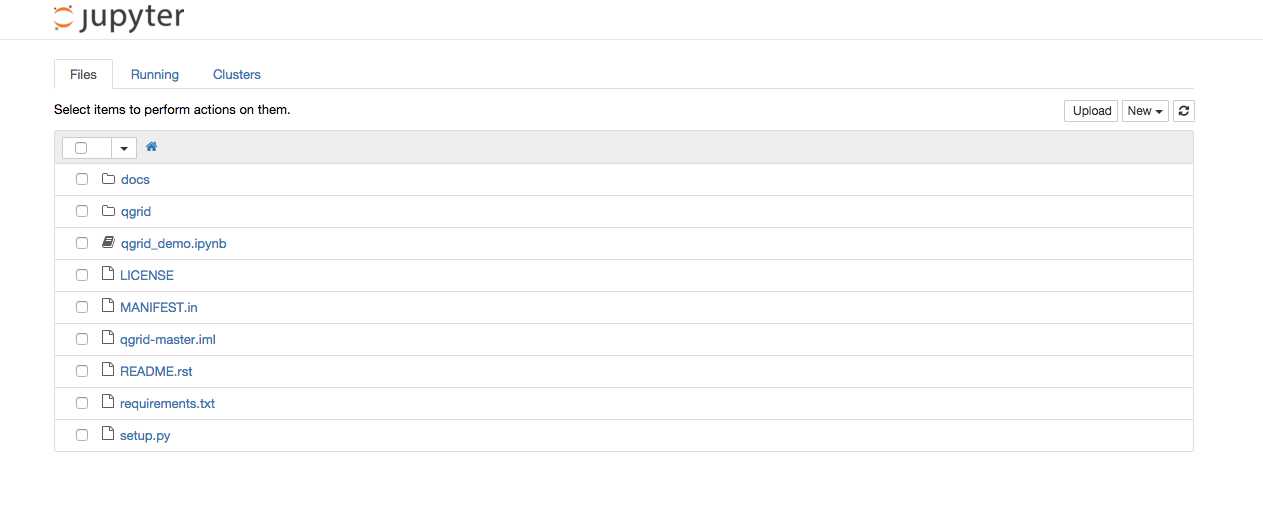
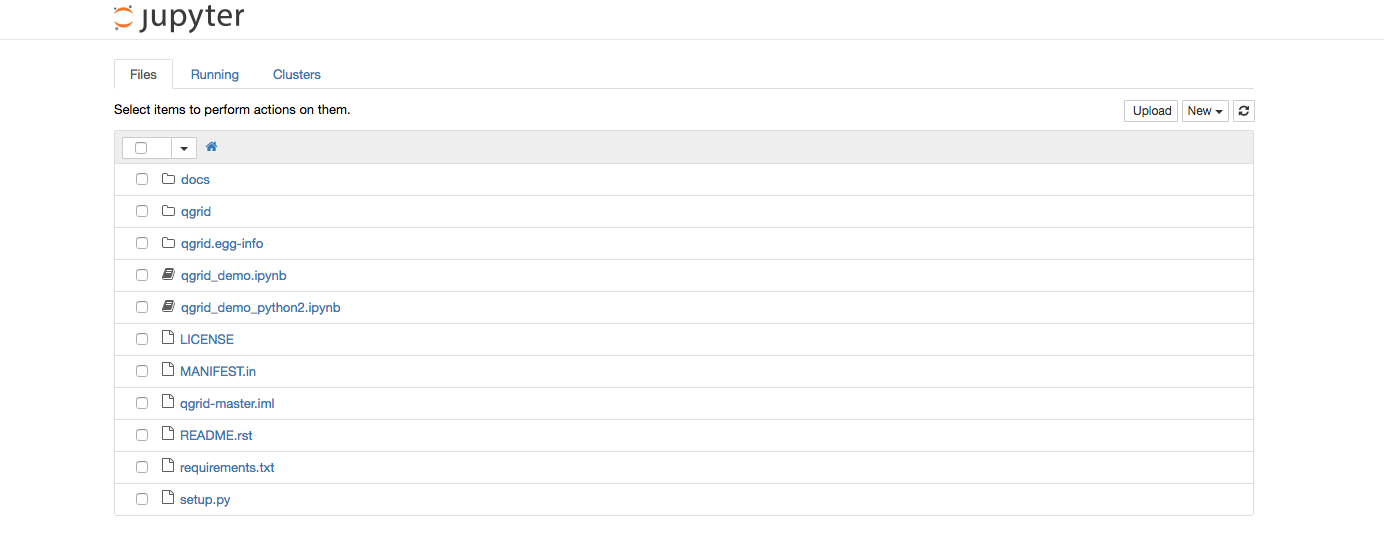
Fixing docs, regarding python2 compatibility (#79)
Qgrid is still compatible with Python 2. I mistakenly removed that from the docs because the sample notebook wasn't working with python 2, since it was saved with a python 3 kernel. To prevent other people from running into that problem I've added a separate version of the sample notebook that I saved with a python 2 kernel, and updated the docs accordingly.

Changed region(s): [[0.0309, 0.1224, 0.9572, 0.8872], [0.0309, 0.0, 0.1853, 0.0612], [0.0926, 0.9178, 0.1853, 0.9484]]

diff --git a/README.rst b/README.rst
@@ -31,7 +31,7 @@ Installation
 
 **Python Dependencies:**
 
-Qgrid runs on `Python 3 <https://www.python.org/downloads/>`_.  You'll also need
+Qgrid runs on `Python 2 or 3 <https://www.python.org/downloads/>`_.  You'll also need
 `pip <https://pypi.python.org/pypi/pip>`_ for the installation steps below.
 
 Qgrid depends on the following three Python packages:
@@ -99,7 +99,8 @@ to clone the qgrid repository to get it.  Here are the steps to clone the reposi
 
          The "notebook dashboard" for the jupyter notebook which shows all the files in the current directory.
 
-#. Click on qgrid_demo.ipynb to open it.  Here's what that should like:
+#. Click on qgrid_demo.ipynb to open it.  If you're using a Python 2 kernel with jupyter notebook then you should
+   open qgrid_demo_python2.ipynb instead.  Here's what the notebook should like:
 
      .. figure:: docs/images/notebook_screen.png
          :align: left
